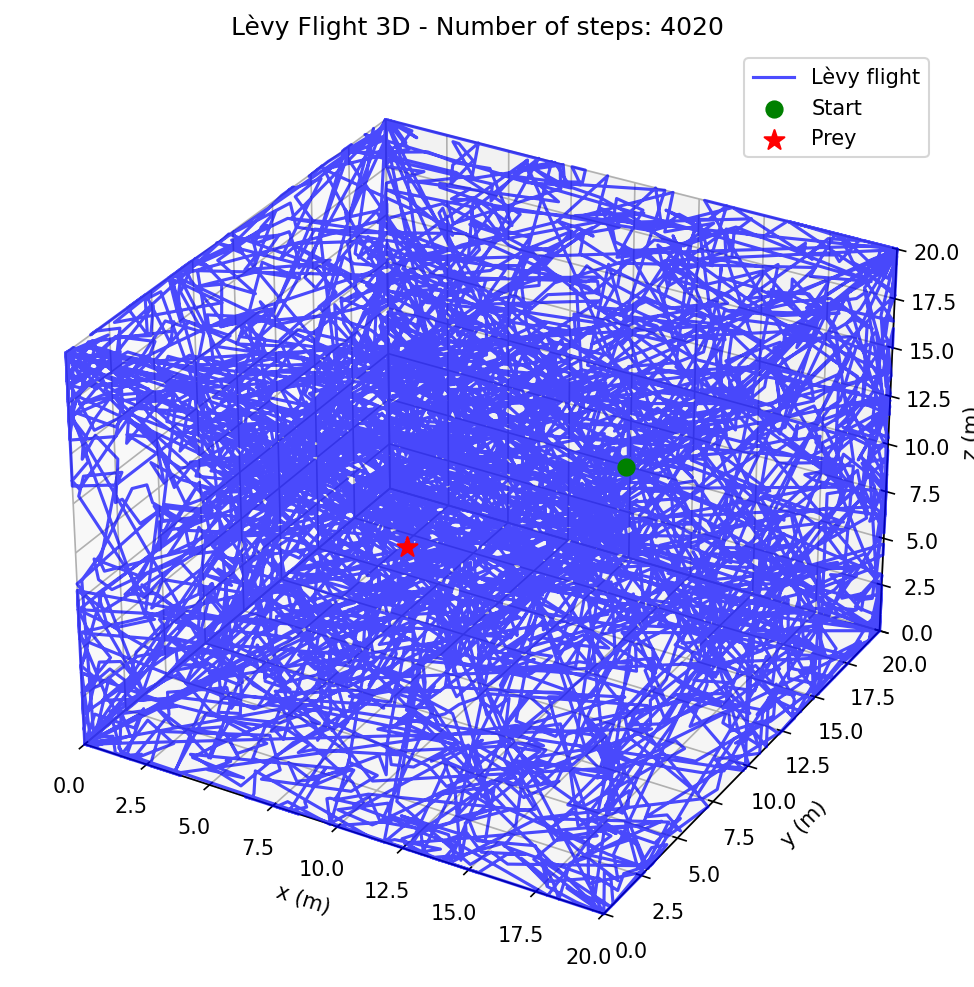
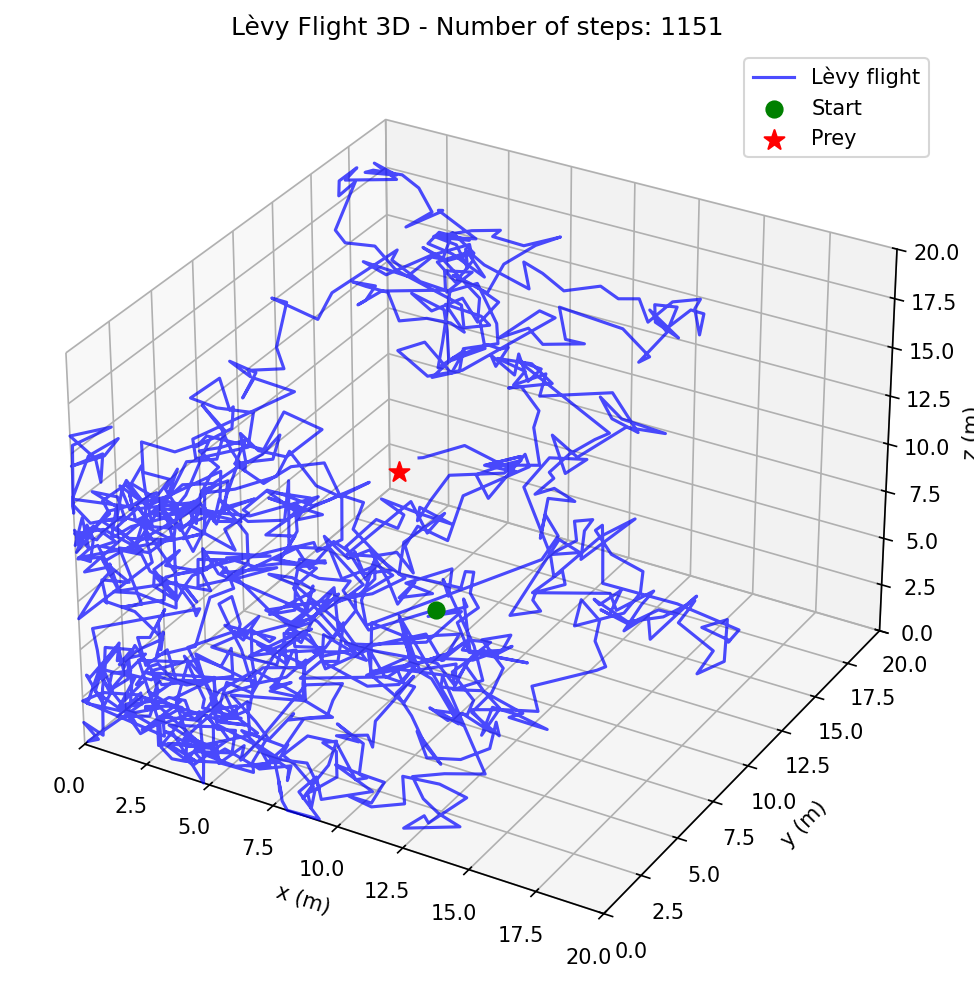
Grafica 3-4

diff --git a/Levy/Levy3D.py b/Levy/Levy3D.py
@@ -2,9 +2,9 @@ import numpy as np
 from mpl_toolkits.mplot3d import Axes3D
 import matplotlib.pyplot as plt
 
-L=10
-N_pasos=10000
-alpha_0=2.5
+L=20
+N_pasos=5000
+alpha_0=3.0
 alpha_f=4.0
 delta_alpha=0.05
 l_min=1.0 #necesario para normalizar la power law
